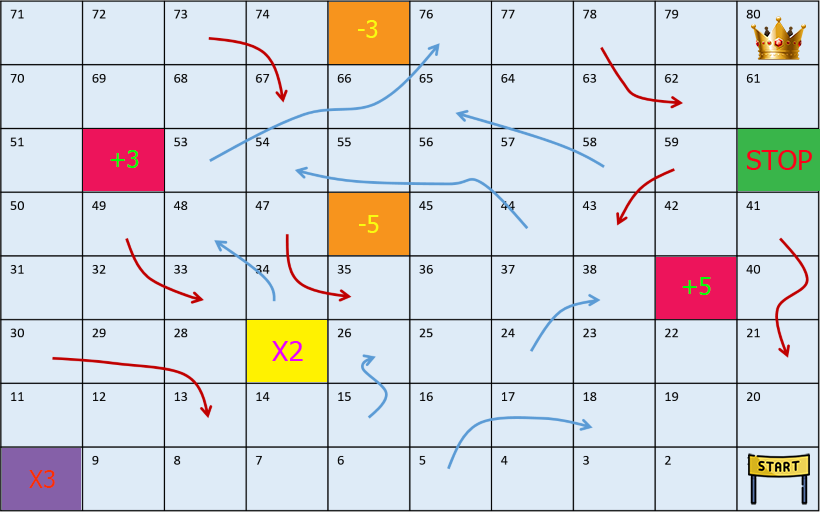
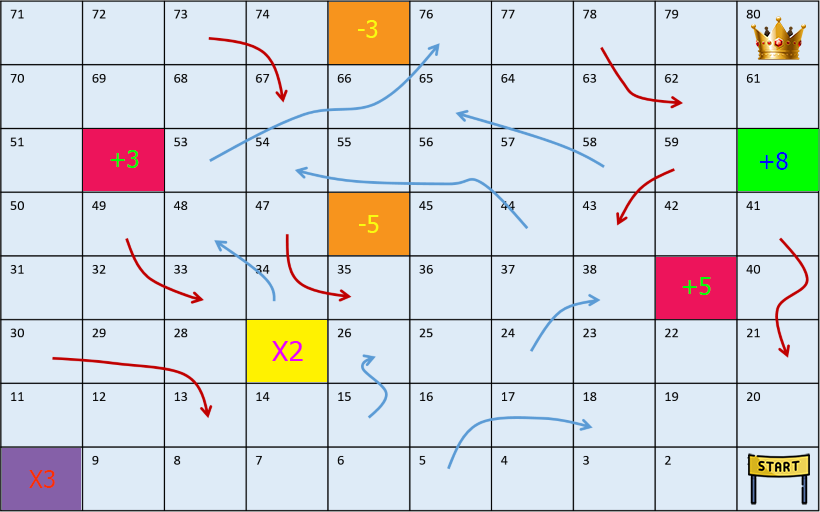
Assignment

Changed region(s): [[0.8841, 0.25, 1.0, 0.375]]

diff --git a/board-game-master/src/Player.java b/board-game-master/src/Player.java
@@ -31,10 +31,10 @@ public class Player extends Sprite {
       next_position = Math.min(currentPos + (steps*3), board.getFinishPos());
       System.out.println(this + " walks from " + (currentPos + steps) + " to " + next_position);
     }
-    if(currentPos == board.stopWalk()){
-      System.out.println("Stop walk");
-      next_position = currentPos;
-      System.out.println(this + " walks from " + currentPos + " to " + next_position);
+    if(next_position == board.forwardEight()){
+      System.out.println("Forward 8 steps");
+      next_position = Math.min(currentPos + (steps+8), board.getFinishPos());
+      System.out.println(this + " walks from " + (currentPos + steps) + " to " + next_position);
     }
     if(next_position == board.forwardFive()){
       System.out.println("Forward 5 steps");

diff --git a/board-game-master/src/GameController.java b/board-game-master/src/GameController.java
@@ -38,15 +38,17 @@ public class GameController implements PlayerListener {
   private void rollDice() {
     d1.roll();
     d2.roll();
+
   }
 
   public void takeTurn() {
     if(winner != null)
       return;
 
-
+    
     rollDice();
     currentPlayer.walk(d1.getFace() + d2.getFace());
+      
   }
 
   private void changeTurn() {

diff --git a/board-game-master/src/Board.java b/board-game-master/src/Board.java
@@ -55,9 +55,9 @@ public class Board {
     int w_double = 27;
     return w_double;
   }
-  public int stopWalk(){
-    int w_stop = 60;
-    return w_stop;
+  public int forwardEight(){
+    int w_forward = 60;
+    return w_forward;
   }
   public int forwardFive(){
     int w_forward = 39;
